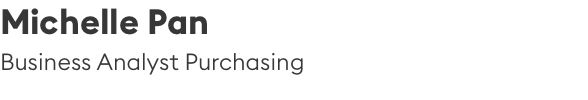
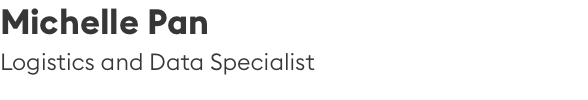
feat: add some

Changed region(s): [[0.0, 0.51, 0.551, 0.75]]

diff --git a/nurausa-email-signature-michelle.html b/nurausa-email-signature-michelle.html
@@ -74,7 +74,7 @@
                     width="294"
                     height="50"
                     src="name-michelle.png"
-                    alt="Michelle Pan | Business Analyst Purchasing"
+                    alt="Michelle Pan | Logistics and Data Specialist"
                     style="border:0; height:50px; width:294px;"
                   />
                 </td>

diff --git a/nurausa-email-signature-vanessa.html b/nurausa-email-signature-vanessa.html
@@ -74,7 +74,7 @@
                     width="294"
                     height="50"
                     src="name-vanessa.png"
-                    alt="Vanessa Ferrer | Quality Specialist"
+                    alt="Vanessa Ferrer | Quality Manager"
                     style="border:0; height:50px; width:294px;"
                   />
                 </td>
